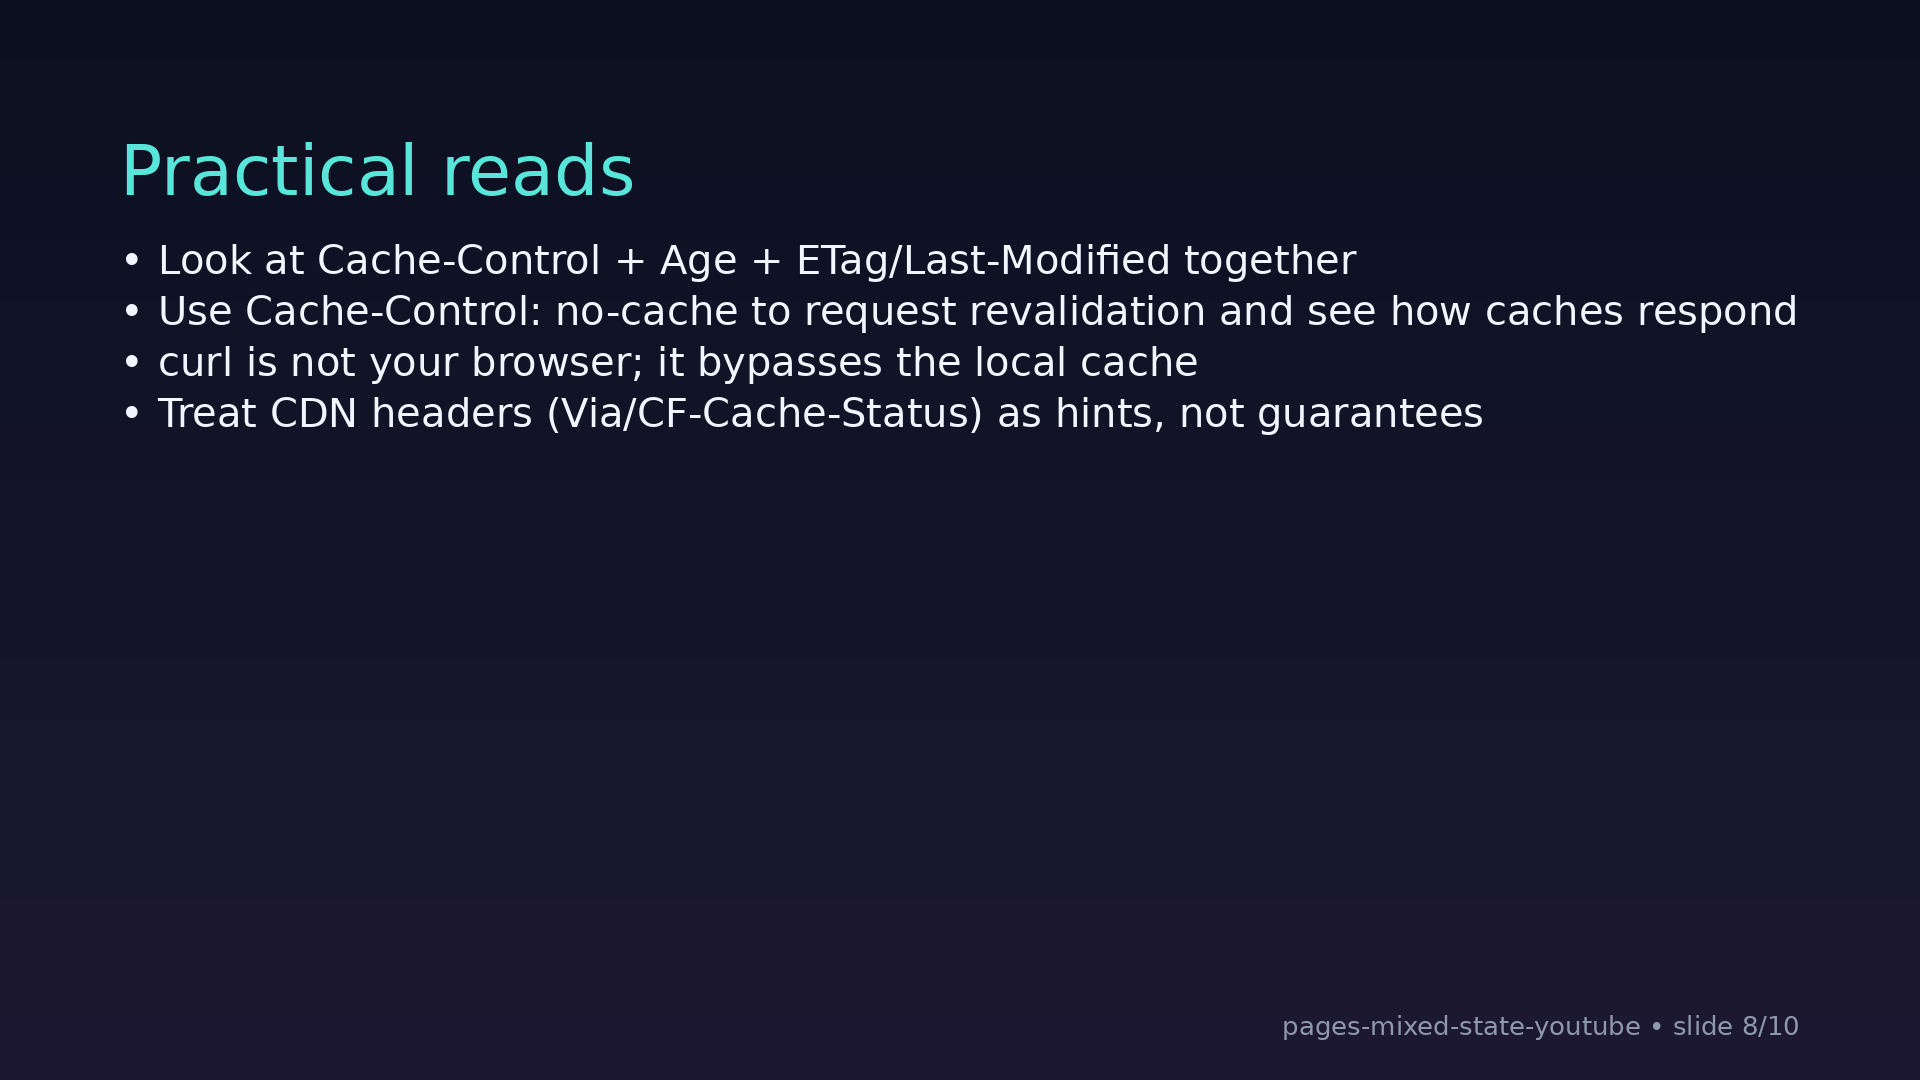
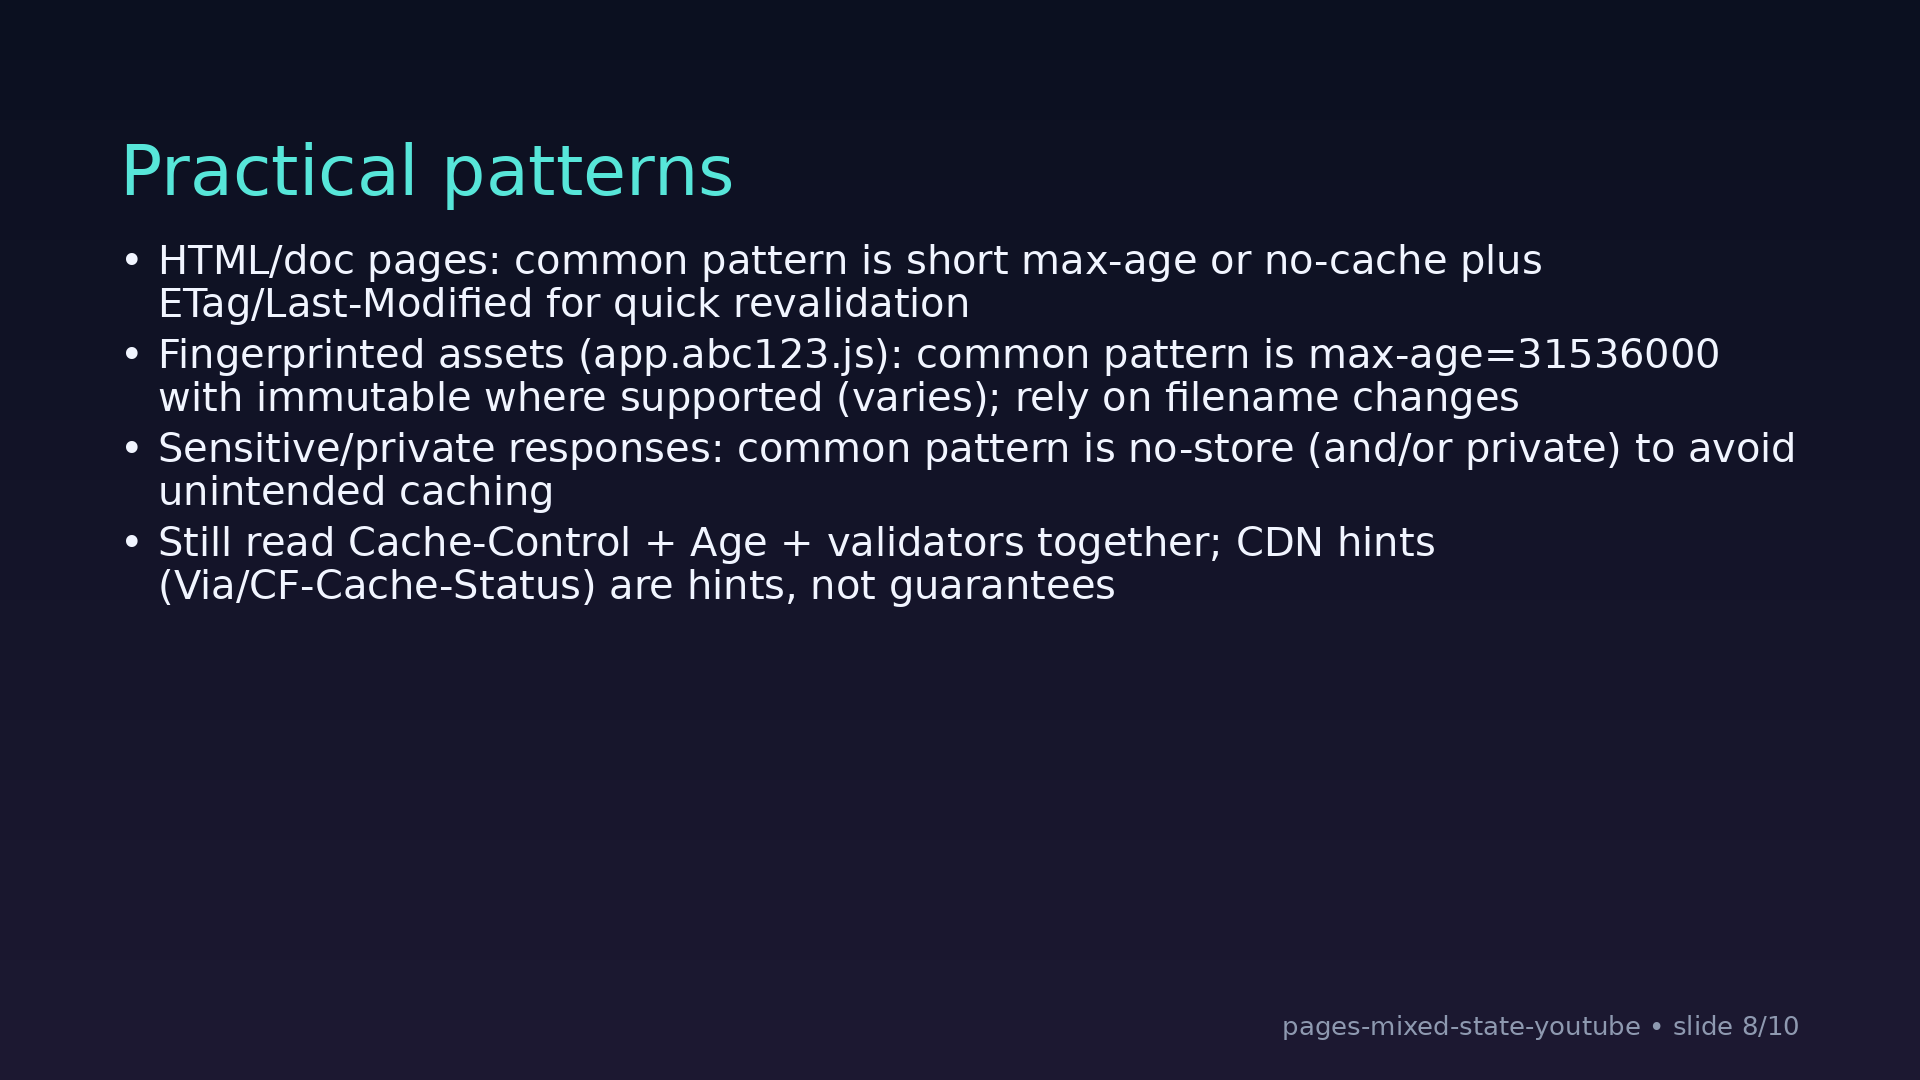
Video 5: add practical caching patterns; refresh rendered slides

Changed region(s): [[0.0625, 0.2139, 0.9375, 0.5806], [0.2188, 0.1222, 0.375, 0.1833]]

diff --git a/script/VIDEO5_script.md b/script/VIDEO5_script.md
@@ -78,11 +78,16 @@ curl -I https://example.com/page.html
 - `must-revalidate` applies after expiry; honoring it varies by intermediary—don't assume it prevents all stale serves.
 - Private content: `Cache-Control: private` stops shared caches, but browsers still cache unless `no-store` or short `max-age`.
 
-### 7) When this model breaks (6:00)
+### 7) Practical patterns (what I actually ship) (5:40)
+- HTML/doc pages: common pattern is short `max-age` or `no-cache` plus validators (ETag/Last-Modified) so revalidation is quick.
+- Fingerprinted static assets (e.g., `app.abc123.js`): common pattern is very long `max-age=31536000` with `immutable` where supported (varies), relying on the filename change to update.
+- Sensitive responses: common pattern is `no-store` (and/or `private`) to avoid unintended caching.
+
+### 8) When this model breaks (6:10)
 - Service workers/app caches or heavy SPA bundling can short-circuit normal HTTP cache semantics.
 - Multiple CDNs or layered proxies can add extra hops where directives or enforcement differ.
 
-### 8) Recap checklist (6:20)
+### 9) Recap checklist (6:40)
 - Identify which cache answered: look at `Age`, `Via`/`CF-Cache-Status`, and whether a CDN is in play.
 - Read `Cache-Control` in full: `max-age`, `s-maxage`, `no-cache`, `must-revalidate`, `stale-while-revalidate`.
 - Probe with `curl -I` plus optional `Cache-Control: no-cache` to force revalidation.
